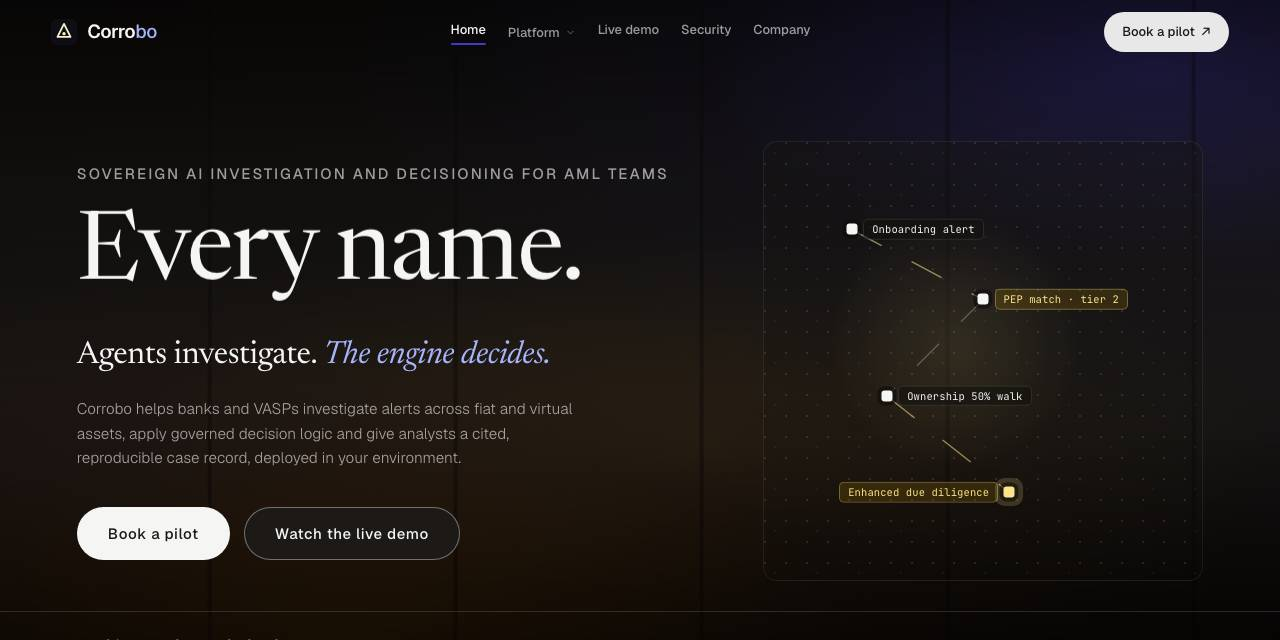
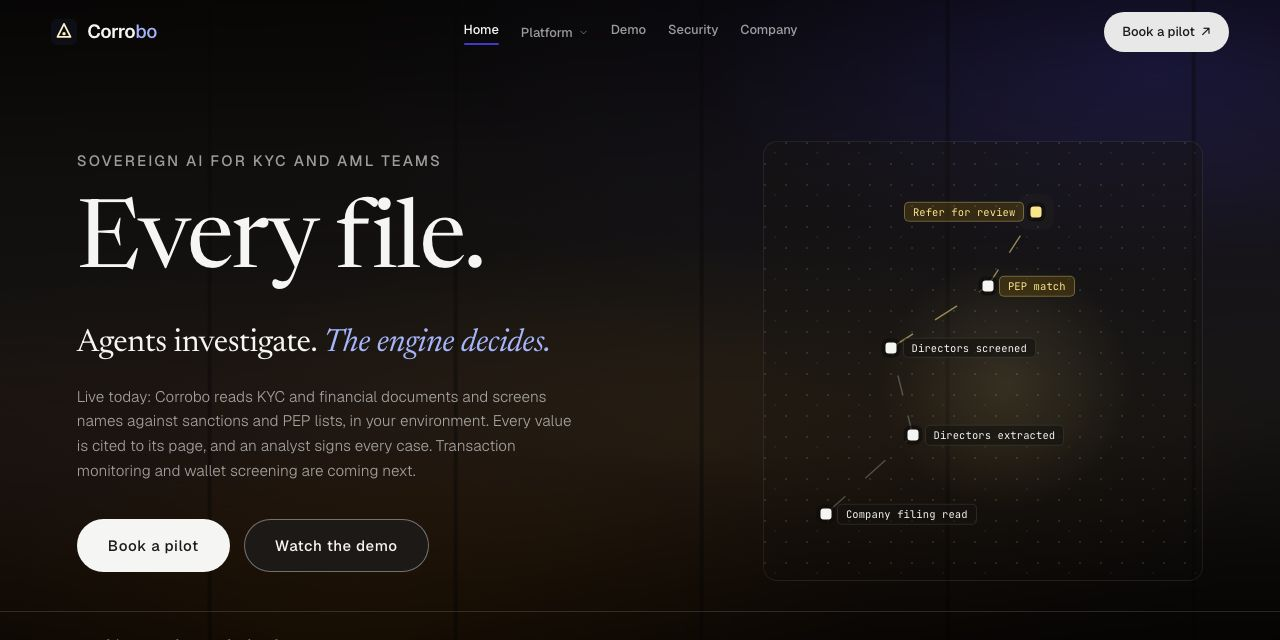
Corrobo card: match what is live (documents + name screening), monitoring next

diff --git a/index.html b/index.html
@@ -115,8 +115,8 @@ footer { border-top: 1px solid var(--line); padding: 22px 0 40px; font-family: v
       <div>
         <span class="label">Compliance AI · 2026</span>
         <h3>Corrobo</h3>
-        <p>AML investigation for banks. Agents gather the evidence, a governed engine makes the call, and the analyst gets a cited case record.</p>
-        <div class="proof">Own fine-tuned 8B document model · 56 document types</div>
+        <p>KYC documents and name screening for banks, on the bank's own hardware. It reads and checks 56 document types and screens names against its own sanctions and PEP database. An analyst signs every case. Transaction monitoring is next.</p>
+        <div class="proof">Fine-tuned on Qwen3-VL 8B · 56 document types · own watchlist database</div>
         <a class="go" href="https://corrobo.ai/" target="_blank" rel="noopener">corrobo.ai -&gt;</a>
       </div>
     </article>
